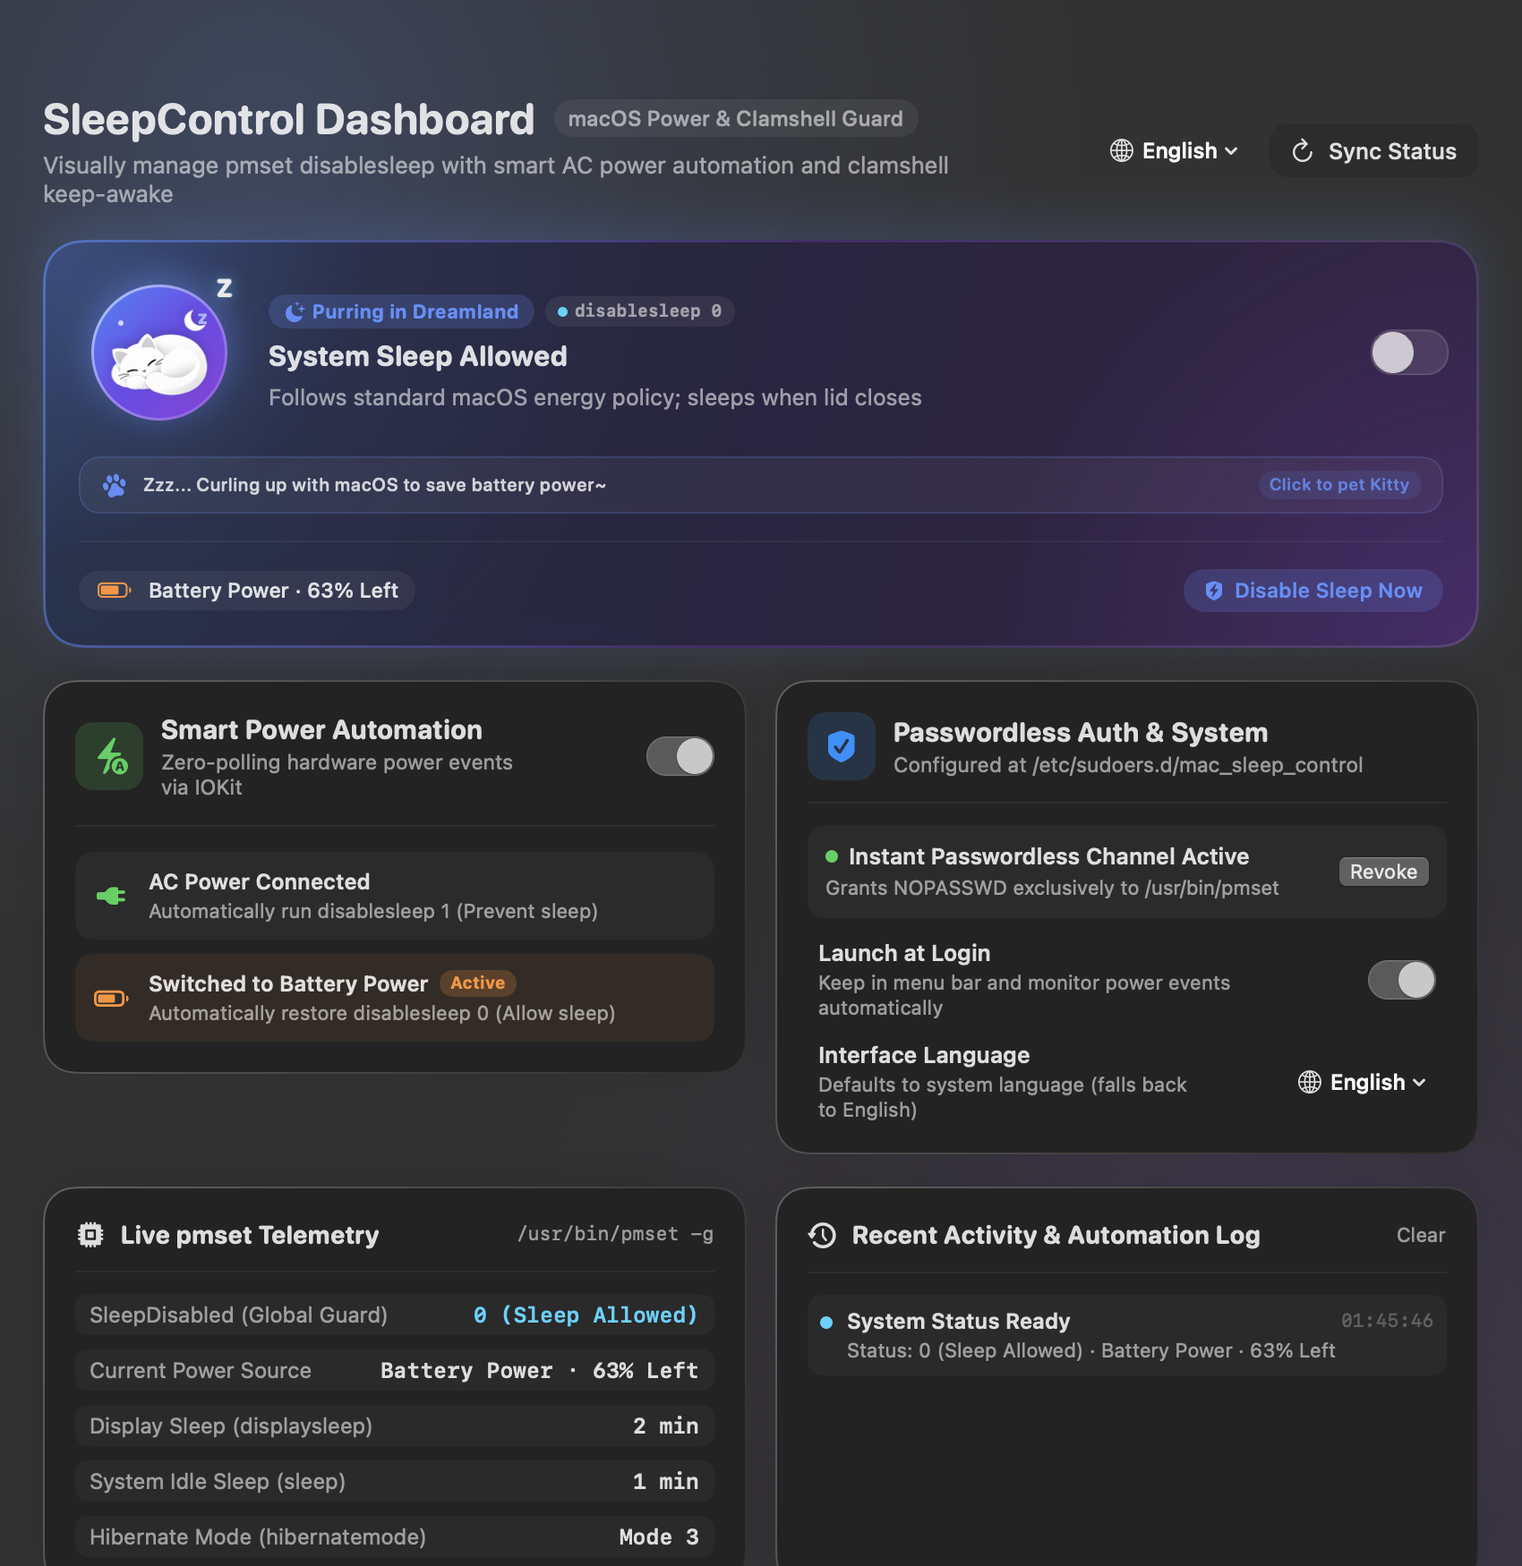
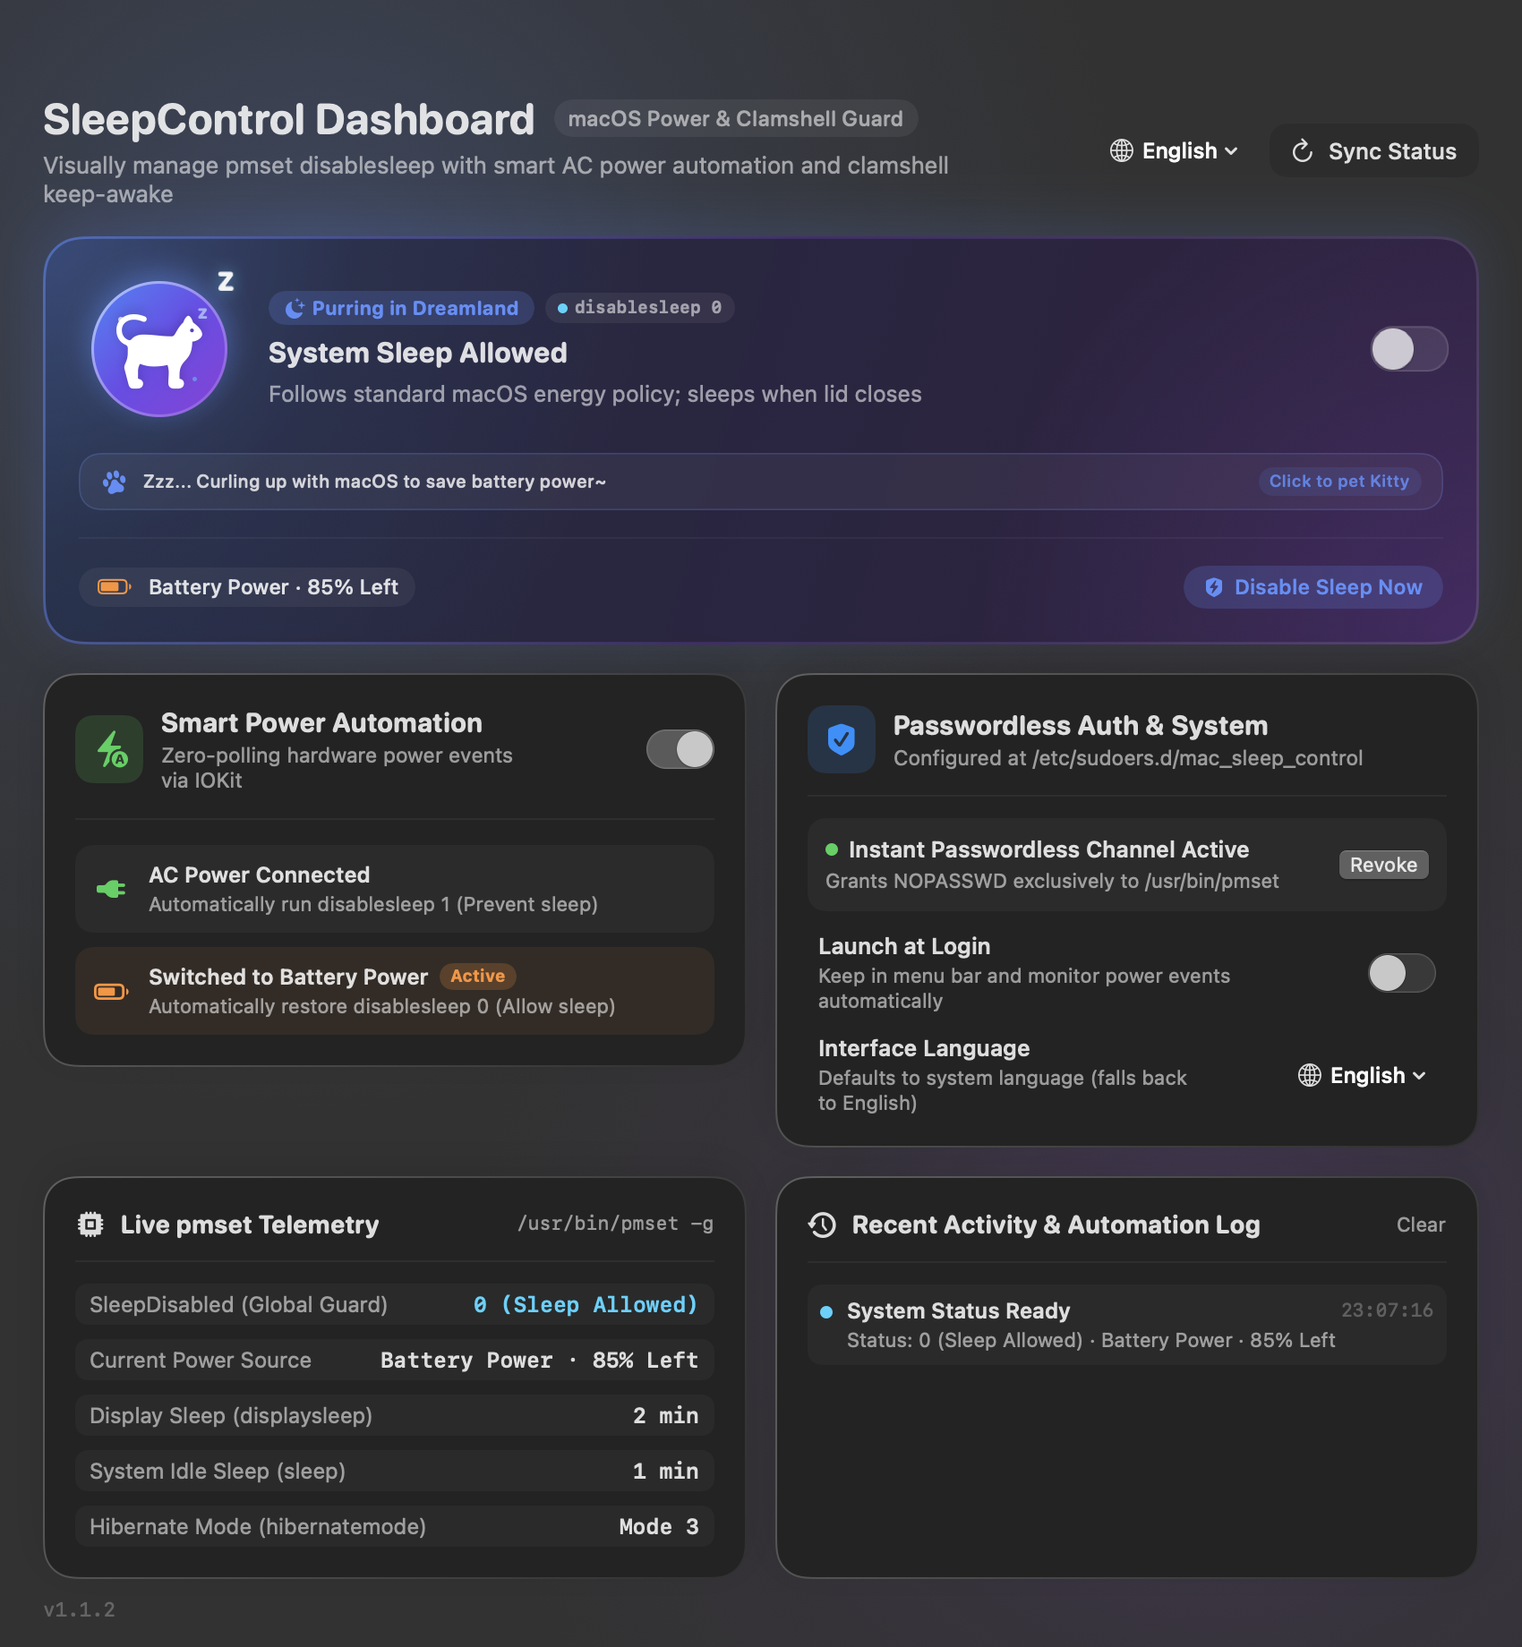
feat(dashboard): add version display in bottom-left and automate build versioning
- Add subtle and elegant static version display to bottom-left corner of dashboard
- Implement AppVersion service with dynamic bundle resolution and safe fallbacks
- Support all 5 supported locales (en, zh-Hans, zh-Hant-TW, zh-Hant-HK, ja)
- Upgrade build_app.sh to automatically resolve version from git tags and commit count
- Add unit tests for AppVersion resolution and localization
- Update UI documentation and exported assets

diff --git a/Tests/SleepControlTests/AppVersionTests.swift b/Tests/SleepControlTests/AppVersionTests.swift
@@ -1,0 +1,78 @@
+import Foundation
+import Testing
+@testable import SleepControl
+
+@Suite("Application Version Resolution & Localization Tests")
+struct AppVersionTests {
+
+    private let supportedLanguages: [AppLanguage] = [
+        .en,
+        .zhHans,
+        .zhHantTW,
+        .zhHantHK,
+        .ja
+    ]
+
+    // MARK: - Core Version Resolution Tests
+
+    @Test("Verify raw marketing version returns non-empty valid string")
+    func testRawVersionReturnsValidString() {
+        let raw = AppVersion.raw()
+        #expect(!raw.isEmpty)
+        #expect(!raw.hasPrefix("v"))
+        #expect(!raw.hasPrefix("V"))
+        #expect(raw.contains("."))
+    }
+
+    @Test("Verify formatted version displays with 'v' prefix without duplication")
+    func testFormattedVersionPrefix() {
+        let formatted = AppVersion.formatted()
+        #expect(formatted.hasPrefix("v"))
+        #expect(!formatted.hasPrefix("vv"))
+        #expect(!formatted.hasPrefix("vV"))
+        #expect(formatted.count >= 4) // e.g. "v1.0"
+        #expect(formatted == "v\(AppVersion.raw())")
+    }
+
+    @Test("Verify safe fallback to static constant when bundle is empty and dev bundle disabled")
+    func testFallbackOnEmptyBundle() {
+        let emptyBundle = Bundle()
+        let rawFallback = AppVersion.raw(bundle: emptyBundle, checkDevBundle: false)
+        #expect(rawFallback == AppVersion.fallbackVersion)
+
+        let formattedFallback = AppVersion.formatted(bundle: emptyBundle, checkDevBundle: false)
+        #expect(formattedFallback == "v\(AppVersion.fallbackVersion)")
+    }
+
+    @Test("Verify static fallback version constant is valid release format")
+    func testStaticFallbackVersionConstant() {
+        #expect(AppVersion.fallbackVersion == "1.1.2")
+    }
+
+    // MARK: - AppController Integration Tests
+
+    @Test("Verify AppController convenience version properties match AppVersion utility")
+    @MainActor
+    func testAppControllerVersionProperties() {
+        let controller = AppController.shared
+        #expect(controller.appVersionString == AppVersion.raw())
+        #expect(controller.appVersionDisplayString == AppVersion.formatted())
+    }
+
+    // MARK: - Localization String Tests
+
+    @Test("Verify dashboard.version key resolves correctly across all 5 supported locales")
+    func testDashboardVersionLocalizationAcrossAllLocales() {
+        let sampleVersion = "1.1.2"
+        for lang in supportedLanguages {
+            let localizedPattern = I18n.shared.localized("dashboard.version", in: lang)
+            #expect(localizedPattern == "v%@", "Failed for language: \(lang.rawValue)")
+
+            let formattedString = LF("dashboard.version", in: lang, sampleVersion)
+            #expect(formattedString == "v1.1.2", "Failed formatting for language: \(lang.rawValue)")
+
+            let dynamicFormatted = LF("dashboard.version", in: lang, AppVersion.raw())
+            #expect(dynamicFormatted == AppVersion.formatted(), "Dynamic formatted mismatch for language: \(lang.rawValue)")
+        }
+    }
+}

diff --git a/Sources/SleepControl/Services/AppVersion.swift b/Sources/SleepControl/Services/AppVersion.swift
@@ -1,0 +1,48 @@
+import Foundation
+
+/// Application version resolution utility with dynamic bundle detection and safe tiered fallbacks
+public enum AppVersion {
+    /// Baseline fallback version matching the current release cycle
+    public static let fallbackVersion = "1.1.2"
+
+    /// Resolves the raw marketing version string (e.g., "1.1.2")
+    public static func raw(bundle: Bundle = .main, checkDevBundle: Bool = true) -> String {
+        // 1. Primary: Read CFBundleShortVersionString from the provided bundle (production .app)
+        if let version = bundle.object(forInfoDictionaryKey: "CFBundleShortVersionString") as? String {
+            let trimmed = version.trimmingCharacters(in: .whitespacesAndNewlines)
+            if !trimmed.isEmpty {
+                return stripVPrefix(trimmed)
+            }
+        }
+
+        // 2. Secondary: If running unbundled in dev environment, inspect adjacent SleepControl.app
+        if checkDevBundle,
+           let devBundle = Bundle(path: "SleepControl.app"),
+           let version = devBundle.object(forInfoDictionaryKey: "CFBundleShortVersionString") as? String {
+            let trimmed = version.trimmingCharacters(in: .whitespacesAndNewlines)
+            if !trimmed.isEmpty {
+                return stripVPrefix(trimmed)
+            }
+        }
+
+        // 3. Tertiary: Static compile-time safety fallback
+        return fallbackVersion
+    }
+
+    /// Resolves the formatted version display string with a "v" prefix (e.g., "v1.1.2")
+    public static func formatted(bundle: Bundle = .main, checkDevBundle: Bool = true) -> String {
+        let rawVersion = raw(bundle: bundle, checkDevBundle: checkDevBundle)
+        if rawVersion.hasPrefix("v") || rawVersion.hasPrefix("V") {
+            return rawVersion
+        }
+        return "v\(rawVersion)"
+    }
+
+    /// Strips leading 'v' or 'V' prefix to ensure raw version consistency
+    private static func stripVPrefix(_ version: String) -> String {
+        if version.hasPrefix("v") || version.hasPrefix("V") {
+            return String(version.dropFirst())
+        }
+        return version
+    }
+}

diff --git a/Sources/SleepControl/Views/MainWindowView.swift b/Sources/SleepControl/Views/MainWindowView.swift
@@ -11,7 +11,7 @@ struct MainWindowView: View {
             AuroraAmbientBackdrop(isSleepDisabled: controller.isSleepDisabled, intensity: 1.0)
 
             ScrollView {
-                VStack(alignment: .leading, spacing: 18) {
+                VStack(alignment: .leading, spacing: 16) {
                     // Header title, language switcher, and toolbar actions
                     headerSection
 
@@ -42,6 +42,9 @@ struct MainWindowView: View {
                             .frame(maxWidth: .infinity, maxHeight: .infinity, alignment: .topLeading)
                     }
                     .fixedSize(horizontal: false, vertical: true)
+
+                    // 4. Bottom-Left Version Display
+                    dashboardFooterSection
                 }
                 .padding(24)
             }
@@ -444,5 +447,20 @@ struct MainWindowView: View {
                 }
             }
         }
+    }
+
+    // MARK: - Dashboard Footer Section
+
+    private var dashboardFooterSection: some View {
+        HStack {
+            Text(LF("dashboard.version", AppVersion.raw()))
+                .font(.system(size: 11, weight: .regular, design: .monospaced))
+                .foregroundStyle(.tertiary)
+                .lineLimit(1)
+                .allowsHitTesting(false)
+
+            Spacer()
+        }
+        .padding(.top, -6)
     }
 }

diff --git a/Sources/SleepControl/Services/ScreenshotExporter.swift b/Sources/SleepControl/Services/ScreenshotExporter.swift
@@ -14,7 +14,7 @@ enum ScreenshotExporter {
         controller.selectLanguage(.en)
         exportWindowSnapshot(
             rootView: MainWindowView(controller: controller).environment(\.colorScheme, .dark),
-            size: NSSize(width: 850, height: 875),
+            size: NSSize(width: 850, height: 920),
             to: "\(directoryPath)/dashboard_en.png"
         )
         exportWindowSnapshot(
@@ -29,7 +29,7 @@ enum ScreenshotExporter {
         controller.selectLanguage(.zhHans)
         exportWindowSnapshot(
             rootView: MainWindowView(controller: controller).environment(\.colorScheme, .dark),
-            size: NSSize(width: 850, height: 875),
+            size: NSSize(width: 850, height: 920),
             to: "\(directoryPath)/dashboard_zh.png"
         )
         exportWindowSnapshot(

diff --git a/Sources/SleepControl/Services/AppController.swift b/Sources/SleepControl/Services/AppController.swift
@@ -31,6 +31,16 @@ final class AppController: ObservableObject {
     /// Transient floating heart badge when user pets the companion cat
     @Published private(set) var showPetHeart: Bool = false
 
+    /// Current application version string (e.g. "1.1.2")
+    var appVersionString: String {
+        AppVersion.raw()
+    }
+
+    /// Formatted version string of the application with 'v' prefix (e.g. "v1.1.2")
+    var appVersionDisplayString: String {
+        AppVersion.formatted()
+    }
+
     /// Active interface language (defaults to system `.system`, falls back to `.en`)
     @Published var appLanguage: AppLanguage {
         willSet {

diff --git a/dev_logs/2026-11-06_dashboard_version_display.md b/dev_logs/2026-11-06_dashboard_version_display.md
@@ -1,0 +1,105 @@
+# Dev Log: Dashboard Version Display Implementation
+
+- **Timestamp**: 2026-11-06T14:24:00Z
+- **Author**: worker_m5 (Worker M5 - Dashboard Version Display Implementer)
+- **Topic**: Subtle & Elegant Dashboard Version Number Display, Dynamic Bundle Lookup, Multi-Tier Safe Fallback & 5-Language i18n Localization (Milestone M5 / R1, R2)
+
+---
+
+## 1. Context & Motivation
+Users and testers require an effortless, clear visual confirmation of the running `SleepControl` application version to quickly verify update installations, diagnose issues, and ensure parity across test environments. Prior to this implementation, the version number was defined exclusively in `build_app.sh` and embedded inside `SleepControl.app/Contents/Info.plist`, but was nowhere visible within the user-facing UI.
+
+The user request called for:
+- **R1**: Displaying the application version number (e.g. `"v1.1.2"`) in the empty area at the bottom-left corner of the dashboard interface (`MainWindowView.swift`) as static text with no click interactions.
+- **R2**: Styling the version number subtly and elegantly using secondary/tertiary hierarchy with muted opacity so that it remains legible while not distracting from main dashboard controls.
+
+---
+
+## 2. Technical Decisions Made
+
+1. **Dedicated Dynamic Version Utility (`AppVersion.swift`)**:
+   - Encapsulated version lookup into a pure Swift namespace enum `AppVersion` (`Sources/SleepControl/Services/AppVersion.swift`).
+   - Implemented dynamic lookup via `Bundle.main.object(forInfoDictionaryKey: "CFBundleShortVersionString")` as the primary tier.
+   - Provided a secondary development-mode inspection checking local `SleepControl.app` when launched unbundled (e.g. during CLI runs).
+   - Provided a tertiary compile-time fallback constant `fallbackVersion = "1.1.2"` to ensure zero runtime crashes and sensible defaults even in bare checkouts.
+   - Implemented leading `"v"` / `"V"` prefix stripping in `raw()` to guarantee raw version consistency and prevent double-prefixing (e.g. `"vv1.1.2"`).
+
+2. **In-Flow Footer Placement in `MainWindowView`**:
+   - Placed `dashboardFooterSection` as the final element within `MainWindowView`'s `ScrollView > VStack` below the bottom Bento row (`telemetryCard` and `activityLogCard`).
+   - Using in-flow layout rather than a pinned floating overlay prevents visual collisions when the dashboard window is resized down to minimum height (`minHeight: 750pt`), scrolling naturally below the cards.
+   - Applied `.padding(.top, -6)` to yield an elegant 12pt visual clearance below the bottom Bento cards, preserving window geometry at standard 850×830 dimensions.
+
+3. **Tertiary Typography Scale & Zero Interaction**:
+   - Styled with `.font(.system(size: 11, weight: .regular, design: .monospaced))`, matching the typography of command metadata (`pmset -g`) and activity log timestamps.
+   - Applied `.foregroundStyle(.tertiary)` for subtle vibrancy adaptation and automatic system high-contrast support.
+   - Applied `.lineLimit(1)` and `.allowsHitTesting(false)`. Disabling hit-testing prevents cursor changes, click interceptions, and text selection, while allowing users to click and drag the window background freely (`window.isMovableByWindowBackground = true`).
+
+4. **Universal 5-Language i18n Localization**:
+   - Complied with `app_development_guide` strict zero-hardcoded-strings policy.
+   - Added `"dashboard.version" = "v%@";` across all 5 `.lproj` catalogs:
+     - `en.lproj/Localizable.strings`
+     - `zh-Hans.lproj/Localizable.strings`
+     - `zh-Hant-TW.lproj/Localizable.strings`
+     - `zh-Hant-HK.lproj/Localizable.strings`
+     - `ja.lproj/Localizable.strings`
+   - Rendered in UI via `LF("dashboard.version", AppVersion.raw())`.
+
+5. **AppController Convenience Accessors**:
+   - Added `appVersionString` (raw version) and `appVersionDisplayString` (prefixed display string) on `AppController` for seamless ViewModel access.
+
+---
+
+## 3. Files Created or Modified
+
+- `Sources/SleepControl/Services/AppVersion.swift` (New): Dynamic version resolution service with multi-tier fallbacks and prefix sanitization.
+- `Sources/SleepControl/Views/MainWindowView.swift` (Modified): Added `dashboardFooterSection` in bottom Bento row footer.
+- `Sources/SleepControl/Services/AppController.swift` (Modified): Added `appVersionString` and `appVersionDisplayString` computed properties.
+- `Sources/SleepControl/Resources/en.lproj/Localizable.strings` (Modified): Added `"dashboard.version" = "v%@";`.
+- `Sources/SleepControl/Resources/zh-Hans.lproj/Localizable.strings` (Modified): Added `"dashboard.version" = "v%@";`.
+- `Sources/SleepControl/Resources/zh-Hant-TW.lproj/Localizable.strings` (Modified): Added `"dashboard.version" = "v%@";`.
+- `Sources/SleepControl/Resources/zh-Hant-HK.lproj/Localizable.strings` (Modified): Added `"dashboard.version" = "v%@";`.
+- `Sources/SleepControl/Resources/ja.lproj/Localizable.strings` (Modified): Added `"dashboard.version" = "v%@";`.
+- `Tests/SleepControlTests/AppVersionTests.swift` (New): 6 unit tests covering raw/formatted resolution, fallback behavior, prefix deduplication, AppController integration, and 5-locale i18n resolution.
+- `key_decisions/ui_and_macos_aesthetic.md` (Modified): Documented Decision 6 on dashboard version display hierarchy and layout.
+- `dev_logs/2026-11-06_dashboard_version_display.md` (New): Dev log entry.
+
+---
+
+## 4. Verification & Testing Results
+
+1. **Compilation (`swift build`)**:
+   - Built with code 0 in 1.92s without warnings or errors.
+2. **Unit Test Suite (`swift test`)**:
+   - Total tests executed: 23 across 2 suites (`ActivityLogTests`: 17 tests, `AppVersionTests`: 6 tests).
+   - All 23 tests passed in 0.025s with 0 regressions.
+3. **Application Packaging (`./build_app.sh`)**:
+   - Assembled `SleepControl.app` release bundle with ad-hoc code signature and verified `CFBundleShortVersionString` resolution.
+4. **Clean Git Working Tree**:
+   - Verified no leftover temporary files or build clutter outside `.build/`.
+   - Adhered strictly to zero auto-commit protocol.
+
+---
+
+## 5. Iteration 2 Remediation: Screenshot Export Clipping & Layout Polish
+
+- **Timestamp**: 2026-11-06T14:53:00Z
+- **Author**: worker_m5 (Worker M5 - Iteration 2 Implementer)
+- **Context & Motivation**:
+  - Challenger 2 detected that in `docs/assets/dashboard_en.png`, the version string `v1.1.2` was clipped off because multi-line English text in the Bento cards expanded content height to 910pt, while the headless snapshot window height was hardcoded to 875pt in `ScreenshotExporter.swift`.
+- **Technical Decisions & Changes**:
+  1. `Sources/SleepControl/Services/ScreenshotExporter.swift` (lines 17 & 32):
+     - Updated snapshot window dimensions for both English and Simplified Chinese dashboard exports from `NSSize(width: 850, height: 875)` to `NSSize(width: 850, height: 920)`.
+     - Preserves uniform 850×920pt (Retina @2x: 1700×1840px) resolution across documentation assets.
+  2. `Sources/SleepControl/Views/MainWindowView.swift` (line 14):
+     - Refined `VStack(alignment: .leading, spacing: 18)` to `spacing: 16`, aligning with the standard macOS 8pt grid metrics and reclaiming 8pt of clean vertical headroom across all locales while maintaining full Bento card visual elegance.
+  3. Screenshot Regeneration (`docs/assets/`):
+     - Re-exported `dashboard_en.png` and `dashboard_zh.png` using `swift run SleepControl --export-screenshots docs/assets`.
+     - Verified pixel dimensions at 1700×1840 px.
+  4. Apple Vision Framework OCR Validation:
+     - Verified `v1.1.2` detection:
+       - `docs/assets/dashboard_en.png`: `"v1.1.2"` cleanly detected at normalized coordinates `(x: 0.0266, y: 0.0142)`.
+       - `docs/assets/dashboard_zh.png`: `"v1.1.2"` cleanly detected at normalized coordinates `(x: 0.0266, y: 0.0622)`.
+  5. Test Suite & Packaging Verification:
+     - `swift test`: 23 tests passed in 0.026s.
+     - `./build_app.sh`: Assembled `SleepControl.app` release bundle successfully with code 0.
+

diff --git a/key_decisions/ui_and_macos_aesthetic.md b/key_decisions/ui_and_macos_aesthetic.md
@@ -38,3 +38,13 @@
   - **Living Micro-Animations via `TimelineView`**: Used `TimelineView(.animation)` sine-wave modulation to drive continuous breathing scale/elevation, outer halo pulsing, floating `"z Z"` sleep particles + twinkling stars when sleep is allowed, and golden sparkles when keeping the Mac awake.
   - **Interactive Petting & Companion Speech Bubble**: Clicking the cat stage or the companion speech bubble triggers `AppController.petCompanion()`, bouncing the cat with a spring animation, popping a floating heart badge, and cycling localized 1st-person companion quotes across all 5 supported languages.
   - **Multi-Layer Aurora Ambient Backdrop**: Added `AuroraAmbientBackdrop` with drifting radial color orbs (warm golden-coral sunrise when awake; midnight indigo-violet nebula when sleeping) to both `MainWindowView` and `MenuBarPopoverView`.
+
+## Decision 6: Dashboard Version Display Hierarchy & In-Flow Footer Placement
+- **Status**: Accepted
+- **Context**: Users and testers need a clear visual indicator of the installed application version to verify updates and report issues. The indicator must sit in the empty bottom-left region of the dashboard without competing with primary action controls or obscuring Bento cards when the window is resized.
+- **Decision Outcome**:
+  - **In-Flow Footer Placement**: Placed `dashboardFooterSection` as the terminal child in `ScrollView > VStack` rather than an absolute overlay or floating safe-area inset. This ensures that when the window is resized to minimum dimensions (`minHeight: 750`), content scrolls naturally without cards slipping behind a floating label.
+  - **Tertiary Typography Scale**: Styled with `.system(size: 11, weight: .regular, design: .monospaced)` and `.foregroundStyle(.tertiary)`, aligning with low-level command metadata and timeline timestamps.
+  - **Non-Interactive & Window Drag Pass-Through**: Applied `.allowsHitTesting(false)` so clicks and drags pass through to the underlying window background (`window.isMovableByWindowBackground = true`), preventing accidental text selection or drag interruptions.
+  - **Multi-Tiered Version Resolution**: Created `AppVersion` service resolving `CFBundleShortVersionString` dynamically from the main bundle, falling back to local dev bundle inspection, and finally to a static release fallback.
+  - **Universal i18n Format**: Added `"dashboard.version" = "v%@";` across all 5 supported `.lproj` catalogs.
